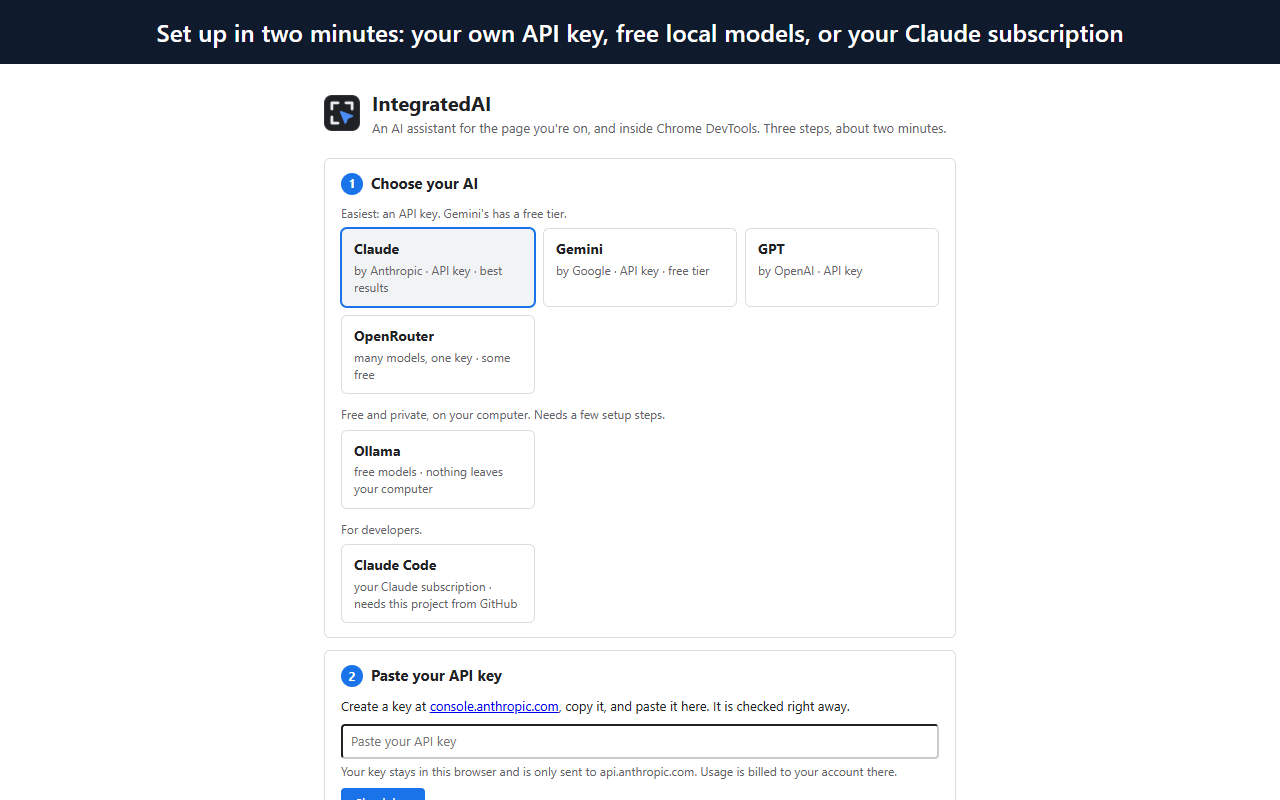
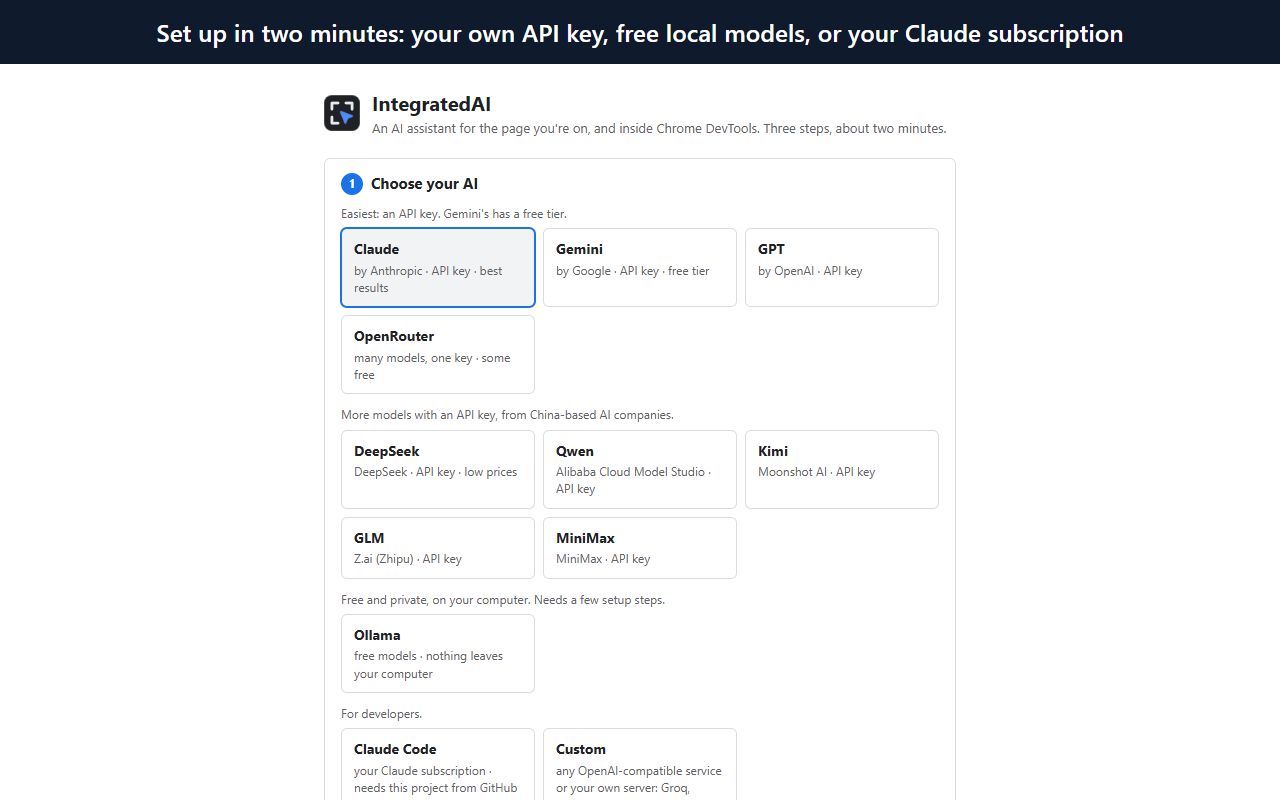
Pre-submission pass: docs, store kit and messages match the extension
- Homepage showed __MSG_extDescription__: build-site.js resolves the
  translated name and summary; the page lists the card, all providers,
  languages, source, issues and contact.
- Error messages named settings that no longer exist (Options → Connection,
  Test key).
- README: full provider list, settings references.
- Store kit: scripting and webNavigation justifications cover the card and
  frames; single purpose and test instructions include the card.
- Privacy policy: Your data is under Advanced settings.
- Setup screenshot retaken (all providers); the setup page header uses the
  full-size 48px icon.

diff --git a/scripts/build-site.js b/scripts/build-site.js
@@ -15,18 +15,24 @@ import { fileURLToPath } from 'node:url';
 const root = fileURLToPath(new URL('..', import.meta.url));
 const manifest = JSON.parse(readFileSync(`${root}/extension/manifest.json`, 'utf8'));
 const markdown = readFileSync(`${root}/store/PRIVACY.md`, 'utf8');
+// The manifest's name and summary may be "__MSG_key__" (translated): take the English text then.
+const messages = JSON.parse(readFileSync(`${root}/extension/_locales/${manifest.default_locale ?? 'en'}/messages.json`, 'utf8'));
+const text = (/** @type {string} */ value) => value.replace(/^__MSG_(\w+)__$/, (_, key) => messages[key]?.message ?? value);
+const name = text(manifest.name);
 
 mkdirSync(`${root}/docs`, { recursive: true });
-writeFileSync(`${root}/docs/privacy.html`, page('Privacy policy · Browser IntegratedAI DevTools', markdownToHtml(markdown)));
-writeFileSync(`${root}/docs/index.html`, page('Browser IntegratedAI DevTools', `
-<h1>Browser IntegratedAI DevTools</h1>
-<p class="lead">${escapeHtml(manifest.description)}</p>
+writeFileSync(`${root}/docs/privacy.html`, page(`Privacy policy · ${name}`, markdownToHtml(markdown)));
+writeFileSync(`${root}/docs/index.html`, page(name, `
+<h1>${escapeHtml(name)}</h1>
+<p class="lead">${escapeHtml(text(manifest.description))}</p>
 <ul>
-  <li>Select an element in the Elements panel, open the <strong>AI</strong> tab, and ask: "why is this overflowing?", "make this look better", "add a dark-mode toggle to the nav bar".</li>
+  <li>On any page, click the toolbar icon: a card opens on the page. Ask about the page, have it summarize or translate it, or pick an element and ask why it looks wrong.</li>
+  <li>In DevTools, select an element in the Elements panel, open the <strong>AI</strong> tab, and ask: "why is this overflowing?", "make this look better", "add a dark-mode toggle to the nav bar".</li>
   <li>Every change is a card you preview and approve. Nothing runs on its own.</li>
-  <li>Use your own Anthropic API key, or the local agent server with your Claude subscription.</li>
+  <li>Use your own API key (Anthropic, OpenAI, Google Gemini, OpenRouter, DeepSeek, Qwen, Kimi, GLM, MiniMax or any OpenAI-compatible service), free local models with Ollama, or the local agent server with your Claude subscription.</li>
+  <li>English and Turkish interface. Free and open source (GNU AGPL).</li>
 </ul>
-<p><a href="privacy.html">Privacy policy</a></p>
+<p><a href="privacy.html">Privacy policy</a> · <a href="https://github.com/alpkavakli/IntegratedAI">Source code and guide</a> · <a href="https://github.com/alpkavakli/IntegratedAI/issues">Report a problem</a> · <a href="mailto:alpkavakli@gmail.com?subject=IntegratedAI">alpkavakli@gmail.com</a></p>
 `));
 writeFileSync(`${root}/docs/.nojekyll`, ''); // serve files as-is on GitHub Pages
 console.log('Built docs/index.html and docs/privacy.html');

diff --git a/docs/privacy.html b/docs/privacy.html
@@ -59,7 +59,7 @@
 <h2>What is stored, and where</h2>
 <p>All storage is local to your computer:</p>
 <ul>
-<li><strong>In Chrome</strong> (extension storage): your settings, your API keys (direct mode), the pairing token (local server mode), saved CSS patches and saved tasks (the page steps you chose to save, including what was typed, but never what was typed into a password field). In direct mode also your conversations (IndexedDB) and site memory, including private per-conversation memory. Removed when you uninstall the extension, or via <em>Options → Your data → Delete extension data</em>. Each API key is only ever sent to its own provider. <em>Options → Your data → Export</em> saves this data (without API keys or the pairing token) to a file on your computer, only when you click it.</li>
+<li><strong>In Chrome</strong> (extension storage): your settings, your API keys (direct mode), the pairing token (local server mode), saved CSS patches and saved tasks (the page steps you chose to save, including what was typed, but never what was typed into a password field). In direct mode also your conversations (IndexedDB) and site memory, including private per-conversation memory. Removed when you uninstall the extension, or via <em>Options → Advanced settings → Your data → Delete extension data</em>. Each API key is only ever sent to its own provider. <em>Options → Advanced settings → Your data → Export</em> saves this data (without API keys or the pairing token) to a file on your computer, only when you click it.</li>
 <li><strong>Local server mode, on your computer, in the agent server's folder</strong> (<code>~/.integratedai</code>): conversations, site memory notes and page types, logs of failed calls, and automatic backups made before data-format updates. You can view, back up or delete this folder at any time; individual memory notes can be edited or deleted in the panel's Memory tab.</li>
 </ul>
 <h2>Starting the local server (optional)</h2>

diff --git a/extension/shared/providers/openai-compatible.js b/extension/shared/providers/openai-compatible.js
@@ -32,10 +32,10 @@ const COMPACT_FULL_RESULTS = 3;
  * @typedef {object} Preset
  * @property {string} label
  * @property {string} baseUrl
- * @property {string[]} models        suggestions; the user can type any model id (Options → Test key lists real ones)
+ * @property {string[]} models        suggestions; the user can type any model id (the settings page's Check lists real ones)
  * @property {string} keyUrl          where to create a key (local: where to get the app)
  * @property {boolean} includeUsage   send stream_options.include_usage (not every endpoint accepts it)
- * @property {string} [keyCheckUrl]   where Test key checks the key, when the model list doesn't need one
+ * @property {string} [keyCheckUrl]   where Check key checks the key, when the model list doesn't need one
  * @property {Record<string, string>} [headers]
  * @property {boolean} [local]        runs on the user's computer: no key, and the address can be changed in Options
  * @property {string} [addressHint]   the address can be changed in Options (other regions, own workspace): what to put there
@@ -458,7 +458,7 @@ export function httpError(label, status, text) {
   if (status === 401 || status === 403 || (status === 400 && /api key/i.test(detail))) {
     return new Error(`The ${label} API key was not accepted. Check it in Options.`);
   }
-  if (status === 404) return new Error(`This model is not available on ${label}. Pick another in Options (Test key lists them).`);
+  if (status === 404) return new Error(`This model is not available on ${label}. Pick another in the settings (Check key lists them).`);
   if (status === 402) return new Error(`Your ${label} account is out of credits.`);
   if (status === 429) return new Error(`${label} rate limit or quota reached. Wait a moment and try again.`);
   if (status >= 500) return new Error(`${label} had a temporary problem (${status}). Try again in a moment.`);

diff --git a/extension/panel/direct/direct-client.js b/extension/panel/direct/direct-client.js
@@ -81,7 +81,7 @@ export class DirectRegistry {
   /** @param {string} id */
   async isAvailable(id) {
     const P = this.get(id);
-    if (!P) return { available: false, reason: `"${id}" needs the local agent server (Options → Connection).` };
+    if (!P) return { available: false, reason: `"${id}" needs the local agent server (settings: Choose your AI → Claude Code).` };
     if (P === AnthropicProvider) {
       return this.config.providers.anthropic.apiKey
         ? { available: true }
@@ -117,7 +117,7 @@ export class DirectRegistry {
         label: P === AnthropicProvider ? 'Anthropic API (direct)' : P.label,
         available,
         reason,
-        // The built-in suggestions, then what the provider itself lists (remembered by Options → Check, and
+        // The built-in suggestions, then what the provider itself lists (remembered by the settings page's Check, and
         // refreshed by the panel), so new models show up without an update of the extension.
         models: [...new Set([...P.models, ...(this.config.modelLists?.[P.id]?.ids ?? [])])],
         defaultModel: P.defaultModel(this.config),
@@ -212,7 +212,7 @@ export class DirectClient extends EventTarget {
     if (reply !== undefined) return reply;
     // Server-only features.
     if (msg.type === 'source.project') return { type: 'source.project', project: null };
-    if (msg.type.startsWith('source.')) throw new Error('Apply to source needs the local agent server (Options → Connection).');
+    if (msg.type.startsWith('source.')) throw new Error('Apply to source needs the local agent server (settings: Choose your AI → Claude Code).');
     throw new Error(`"${msg.type}" is not available in direct mode`);
   }
 

diff --git a/docs/index.html b/docs/index.html
@@ -21,13 +21,15 @@
 <body><main>
 
 <h1>Browser IntegratedAI DevTools</h1>
-<p class="lead">__MSG_extDescription__</p>
+<p class="lead">AI panel in Chrome DevTools: explains layout and console errors, previews CSS fixes, fills forms, saves per-site patches.</p>
 <ul>
-  <li>Select an element in the Elements panel, open the <strong>AI</strong> tab, and ask: "why is this overflowing?", "make this look better", "add a dark-mode toggle to the nav bar".</li>
+  <li>On any page, click the toolbar icon: a card opens on the page. Ask about the page, have it summarize or translate it, or pick an element and ask why it looks wrong.</li>
+  <li>In DevTools, select an element in the Elements panel, open the <strong>AI</strong> tab, and ask: "why is this overflowing?", "make this look better", "add a dark-mode toggle to the nav bar".</li>
   <li>Every change is a card you preview and approve. Nothing runs on its own.</li>
-  <li>Use your own Anthropic API key, or the local agent server with your Claude subscription.</li>
+  <li>Use your own API key (Anthropic, OpenAI, Google Gemini, OpenRouter, DeepSeek, Qwen, Kimi, GLM, MiniMax or any OpenAI-compatible service), free local models with Ollama, or the local agent server with your Claude subscription.</li>
+  <li>English and Turkish interface. Free and open source (GNU AGPL).</li>
 </ul>
-<p><a href="privacy.html">Privacy policy</a></p>
+<p><a href="privacy.html">Privacy policy</a> · <a href="https://github.com/alpkavakli/IntegratedAI">Source code and guide</a> · <a href="https://github.com/alpkavakli/IntegratedAI/issues">Report a problem</a> · <a href="mailto:alpkavakli@gmail.com?subject=IntegratedAI">alpkavakli@gmail.com</a></p>
 
 </main></body>
 </html>

diff --git a/extension/options/options.html b/extension/options/options.html
@@ -85,7 +85,7 @@
   <body>
     <main>
     <header class="intro">
-      <img src="../icons/icon128.png" alt="">
+      <img src="../icons/icon48.png" alt="">
       <div>
         <h1>IntegratedAI</h1>
         <p data-i18n="optIntro">An AI assistant for the page you're on, and inside Chrome DevTools. Three steps, about two minutes.</p>

diff --git a/README.md b/README.md
@@ -12,7 +12,8 @@ The AI runs in one of two ways (see [Two ways to run it](#two-ways-to-run-it)):
 ```
 Direct mode (default): nothing to install
   Chrome DevTools ── "AI" panel (extension, runs the agent itself)
-        └── your own API key: Anthropic, OpenAI, Google Gemini, OpenRouter
+        └── your own API key: Anthropic, OpenAI, Google Gemini, OpenRouter, DeepSeek,
+            Qwen, Kimi, GLM, MiniMax or any OpenAI-compatible service,
             or Ollama on your computer (no key)
 
 Local server mode (for developers)
@@ -31,11 +32,11 @@ Local server mode (for developers)
 
 ## Two ways to run it
 
-Choose in **Options → Connection**:
+Choose in the settings page (step 1, **Choose your AI**):
 
 | | **Direct** (default for new installs) | **Local agent server** |
 |---|---|---|
-| Setup | Paste an API key for Anthropic, OpenAI, Google Gemini or OpenRouter, or use [Ollama](https://ollama.com) on your computer (no key; see below). Nothing else to install. | Node.js 20+ and [Claude Code](https://code.claude.com), then `npm start` (below) |
+| Setup | Paste an API key for Anthropic, OpenAI, Google Gemini, OpenRouter, DeepSeek, Qwen, Kimi, GLM or MiniMax, or use [Ollama](https://ollama.com) on your computer (no key; see below). Nothing else to install. | Node.js 20+ and [Claude Code](https://code.claude.com), then `npm start` (below) |
 | Pays with | Your account with that provider | Your Claude subscription (via Claude Code), or an API key |
 | Where conversations and memory live | In the browser (IndexedDB, extension storage) | `~/.integratedai/` on your computer |
 | Extras | — | "Apply to source"; page tools as real Claude Code tools |
@@ -54,7 +55,7 @@ model menu without an update of the extension (the built-in names come first). *
 connects any other service with the OpenAI Chat Completions API and tool calls: Groq, Mistral, Together, LM Studio,
 vLLM, your own server. Enter its address, its key if it needs one, and the model.
 
-Both use the **same agent code** (`extension/shared/agent/`: orchestrator, prompts, memory, request handling). In direct mode it runs inside the extension: Anthropic through a vendored build of the official SDK (`extension/vendor/`, regenerate with `npm run vendor:sdk`); OpenAI, Gemini, OpenRouter and Ollama through their OpenAI-compatible Chat Completions API (`extension/shared/providers/openai-compatible.js`; another compatible service is one more preset there).
+Both use the **same agent code** (`extension/shared/agent/`: orchestrator, prompts, memory, request handling). In direct mode it runs inside the extension: Anthropic through a vendored build of the official SDK (`extension/vendor/`, regenerate with `npm run vendor:sdk`); OpenAI, Gemini, OpenRouter, the China-based providers, Custom and Ollama through their OpenAI-compatible Chat Completions API (`extension/shared/providers/openai-compatible.js`; another compatible service is one more preset there).
 
 **Ollama (free, local models).** Install [Ollama](https://ollama.com/download), download a model that supports tools
 (`ollama pull qwen3`), allow browser extensions to call it (Ollama refuses them by default), and raise its context
@@ -321,7 +322,7 @@ time), asking before risky steps as in Auto mode; Stop in the panel or on the pa
 page, the task opens its start page first. Steps are saved with targets that survive a reload (the element's selector,
 then its visible name), never with refs, and never with what was typed into a password field (that step is skipped
 on replay). Saved steps pass the same checks as the AI's, also when imported from an export file. Tasks are stored
-in the browser and included in *Options → Your data → Export*.
+in the browser and included in *Options → Advanced settings → Your data → Export*.
 
 With the Claude Code CLI, the page actions are offered as MCP tools (`mcp__page__interact`, `mcp__page__navigate`) in
 the agent modes only.
@@ -389,12 +390,12 @@ Everything stays on your computer.
 - **First install:** the Options page opens automatically so you can add an API key or connect to the server.
 
 **Moving to another copy of the extension.** A development copy (Load unpacked) and the Chrome Web Store version are *different* extensions to Chrome, with separate storage. In server mode your conversations and memory are shared, because they're on the server; your patches are not. In direct mode, nothing is shared.
-1. In the old copy, open **Options → Your data → Export**. The file holds your patches and settings, and in direct mode also your conversations and site memory (shared and private).
+1. In the old copy, open **Options → Advanced settings → Your data → Export**. The file holds your patches and settings, and in direct mode also your conversations and site memory (shared and private).
 2. In the new copy, click **Import…**. Importing adds to what's there: a conversation is only replaced by a newer copy of itself, and memory notes are joined without duplicates.
 
 API keys and the pairing token are never exported.
 
-**Options → Your data** shows what's stored on both sides and has **Delete extension data**. To back up or remove the server's conversations and memory, copy or delete its folder.
+**Options → Advanced settings → Your data** shows what's stored on both sides and has **Delete extension data**. To back up or remove the server's conversations and memory, copy or delete its folder.
 
 ## Security model
 

diff --git a/store/SUBMISSION.md b/store/SUBMISSION.md
@@ -101,8 +101,8 @@ support URL `https://github.com/alpkavakli/IntegratedAI/issues`.
 ## Privacy practices tab
 
 **Single purpose:**
-> An AI assistant in Chrome DevTools that helps the user understand and change the web page they are
-> inspecting: explaining layout, styling and console errors, proposing CSS, element and form changes, and,
+> An AI assistant for the web page the user is looking at, in Chrome DevTools or as a card on the page opened from the
+> toolbar button, that helps the user understand and change that page: explaining layout, styling and console errors, reading or translating its text, proposing CSS, element and form changes, and,
 > only when the user turns on an agent mode for a conversation, operating that page for them (clicking, typing,
 > opening pages) with the confirmations the user chose.
 
@@ -111,8 +111,8 @@ support URL `https://github.com/alpkavakli/IntegratedAI/issues`.
 | Permission | Justification |
 |---|---|
 | `storage` | Saves the user's settings, API keys or pairing token, and CSS patches locally, and per-tab conversation/undo state. In direct mode also the site memory notes (conversations are kept in the extension's IndexedDB). |
-| `scripting` | Inserts and removes the CSS changes the user approved (`insertCSS` / `removeCSS`), including saved per-site patches. |
-| `webNavigation` | Detects when a page the user saved a patch for starts loading, to reapply that patch. |
+| `scripting` | Inserts and removes the CSS changes the user approved (`insertCSS` / `removeCSS`), including saved per-site patches. Shows the AI card on the page when the user clicks the toolbar button (`executeScript` with the packaged `content/card-host.js`), and, while the card is open, runs the extension's own packaged page functions in that tab to read the page or apply an approved change. No code from outside the package is run this way. |
+| `webNavigation` | Detects when a page the user saved a patch for starts loading, to reapply that patch (also in the page's frames, found with `getAllFrames`), and puts the AI card back on the next page of a tab where the user left it open. |
 | Host permission `<all_urls>` | The tool works on whatever page the user is inspecting in DevTools, so it must be able to read that page (on request), capture its console errors, take screenshots, and apply approved CSS on any site. |
 | Optional permission `nativeMessaging` | Asked for only when a user of the optional local agent server clicks the panel's Server button: it lets the extension ask a helper program the user installed themselves (`npm run services:install`) to start or stop that server. It sends only "status", "start" or "stop". Most users (API key or Ollama) never see this request. |
 | Toolbar button (`action`), `web_accessible_resources` | The toolbar button opens the AI card on the current page. The card is the extension's own panel page shown in a frame on the page; the two page-helper files are loaded into the extension's isolated world to read the page for it. Nothing is loaded from outside the package. |
@@ -153,11 +153,13 @@ If the review still rejects it, the fallback is a store build without `execute_j
 
 ## Test instructions (the dashboard's "Test instructions" field)
 
-> No account is needed. 1) Open any web page, open DevTools (F12) and choose the **AI** tab. 2) In the setup page that
-> opens, choose **Ollama** (free, local) or paste an API key for Anthropic, OpenAI, Google Gemini or OpenRouter. 3)
-> Select an element in the Elements panel and ask, e.g. "why is this cut off?". Changes appear as cards that only run
-> when you click Apply. Agent modes (menu in the message box) let it click and type on the page, asking first as
-> configured. The JavaScript feature is off by default: Options → Advanced settings → "Let it suggest JavaScript".
+> No account is needed. 1) After installing, the setup page opens (later: right-click the toolbar icon → Options).
+> Choose Ollama (free, runs locally) or paste an API key for one of the listed providers, and click Check. 2) On any
+> page, click the toolbar icon: a card opens on the page. Ask "summarize this page", or pick an element and ask "why is
+> this cut off?". 3) In DevTools (F12), open the AI tab: select an element in the Elements panel and ask about it.
+> Changes appear as cards and only run when you click Apply. Agent modes (menu under the message box) let it click and
+> type on the page, asking first as configured. The JavaScript feature is off by default: Options → Advanced settings →
+> "Let it suggest JavaScript".
 
 **Privacy policy URL:** https://alpkavakli.github.io/IntegratedAI/privacy.html
 (GitHub Pages from `/docs` on `main`; rebuild with `npm run site` after changing `store/PRIVACY.md`, then push.)

diff --git a/store/PRIVACY.md b/store/PRIVACY.md
@@ -67,8 +67,8 @@ All storage is local to your computer:
   (local server mode), saved CSS patches and saved tasks (the page steps you chose to save, including what was
   typed, but never what was typed into a password field). In direct mode also your conversations (IndexedDB) and site
   memory, including private per-conversation memory. Removed when you uninstall the extension, or via
-  *Options → Your data → Delete extension data*. Each API key is only ever sent to its own provider.
-  *Options → Your data → Export* saves this data (without API keys or the pairing token) to a file on your
+  *Options → Advanced settings → Your data → Delete extension data*. Each API key is only ever sent to its own provider.
+  *Options → Advanced settings → Your data → Export* saves this data (without API keys or the pairing token) to a file on your
   computer, only when you click it.
 - **Local server mode, on your computer, in the agent server's folder** (`~/.integratedai`): conversations, site memory notes
   and page types, logs of failed calls, and automatic backups made before data-format updates. You can
